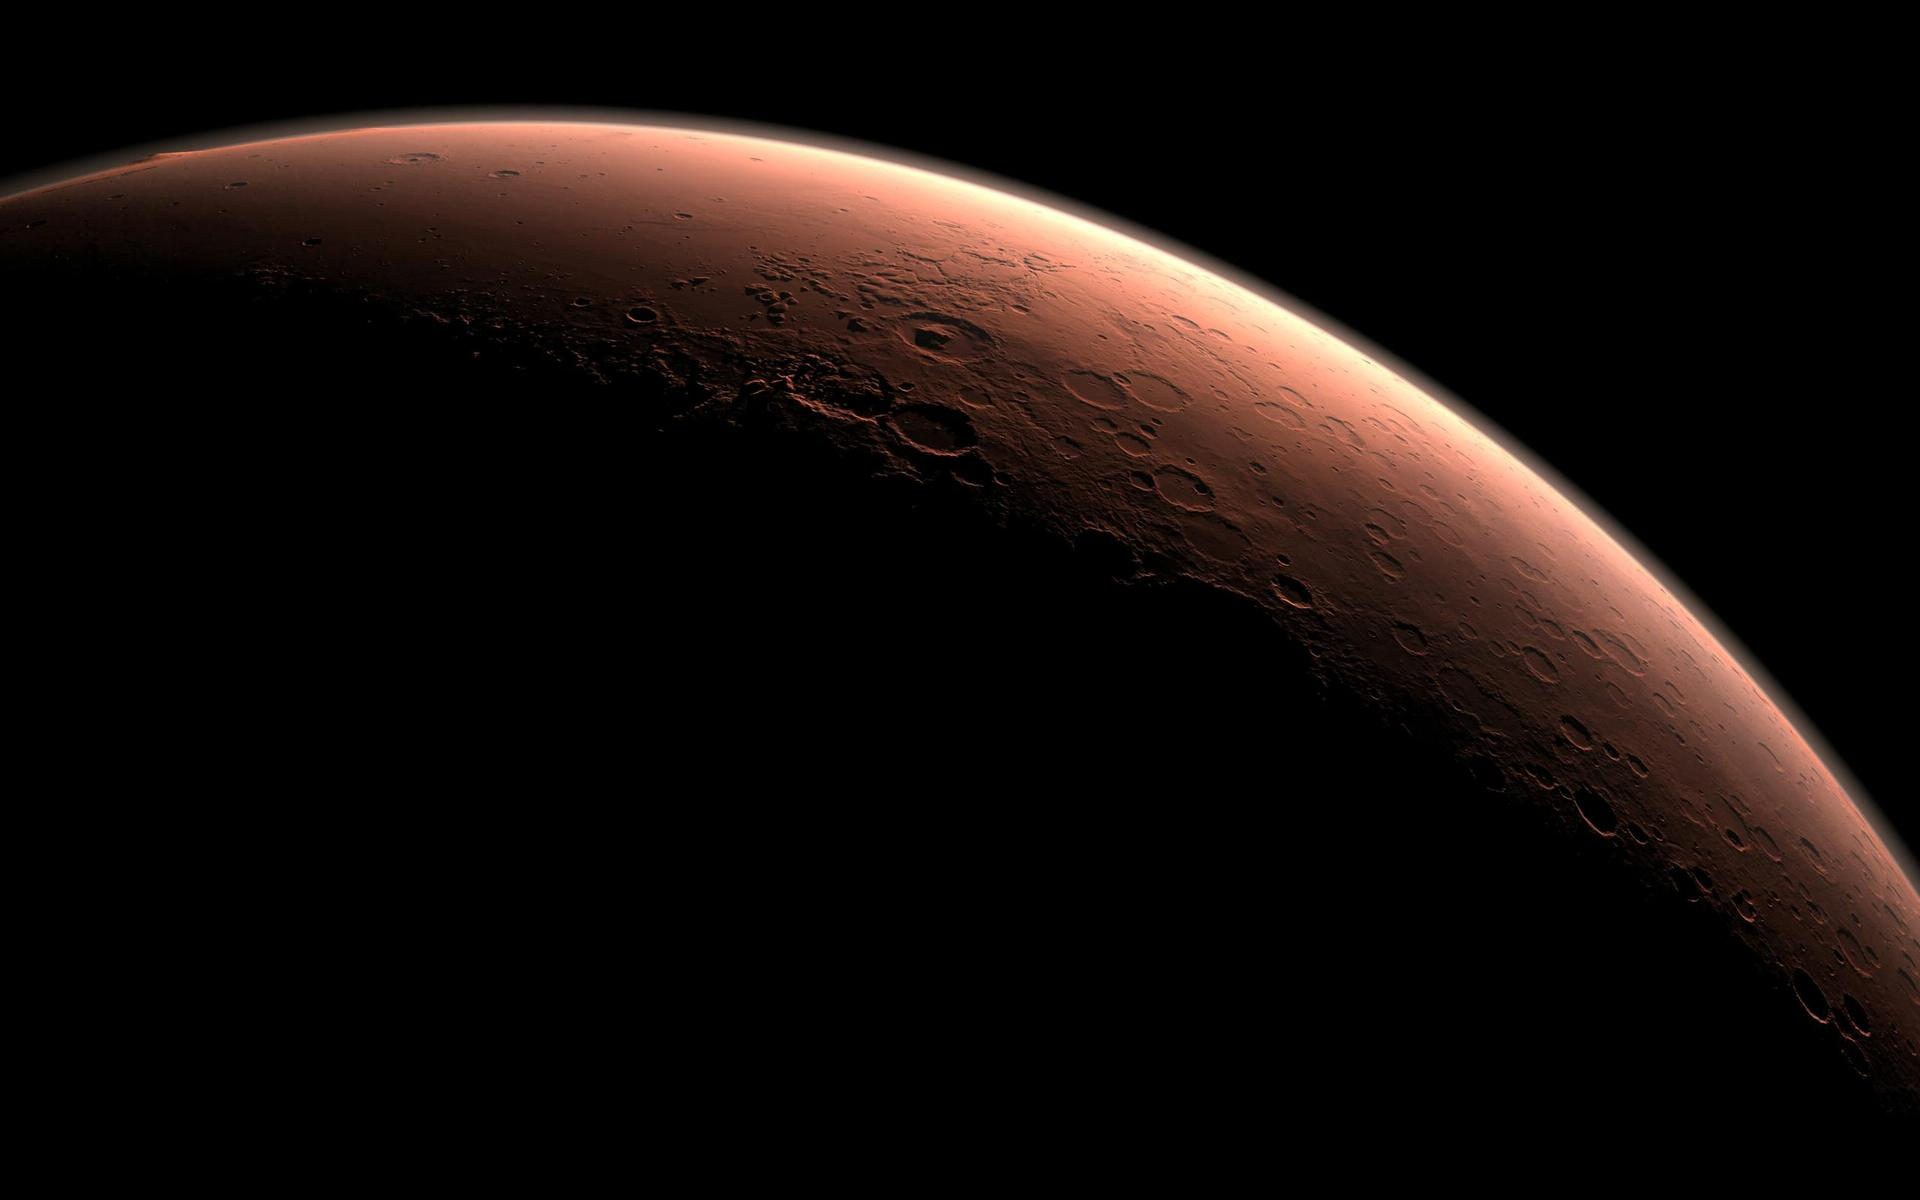
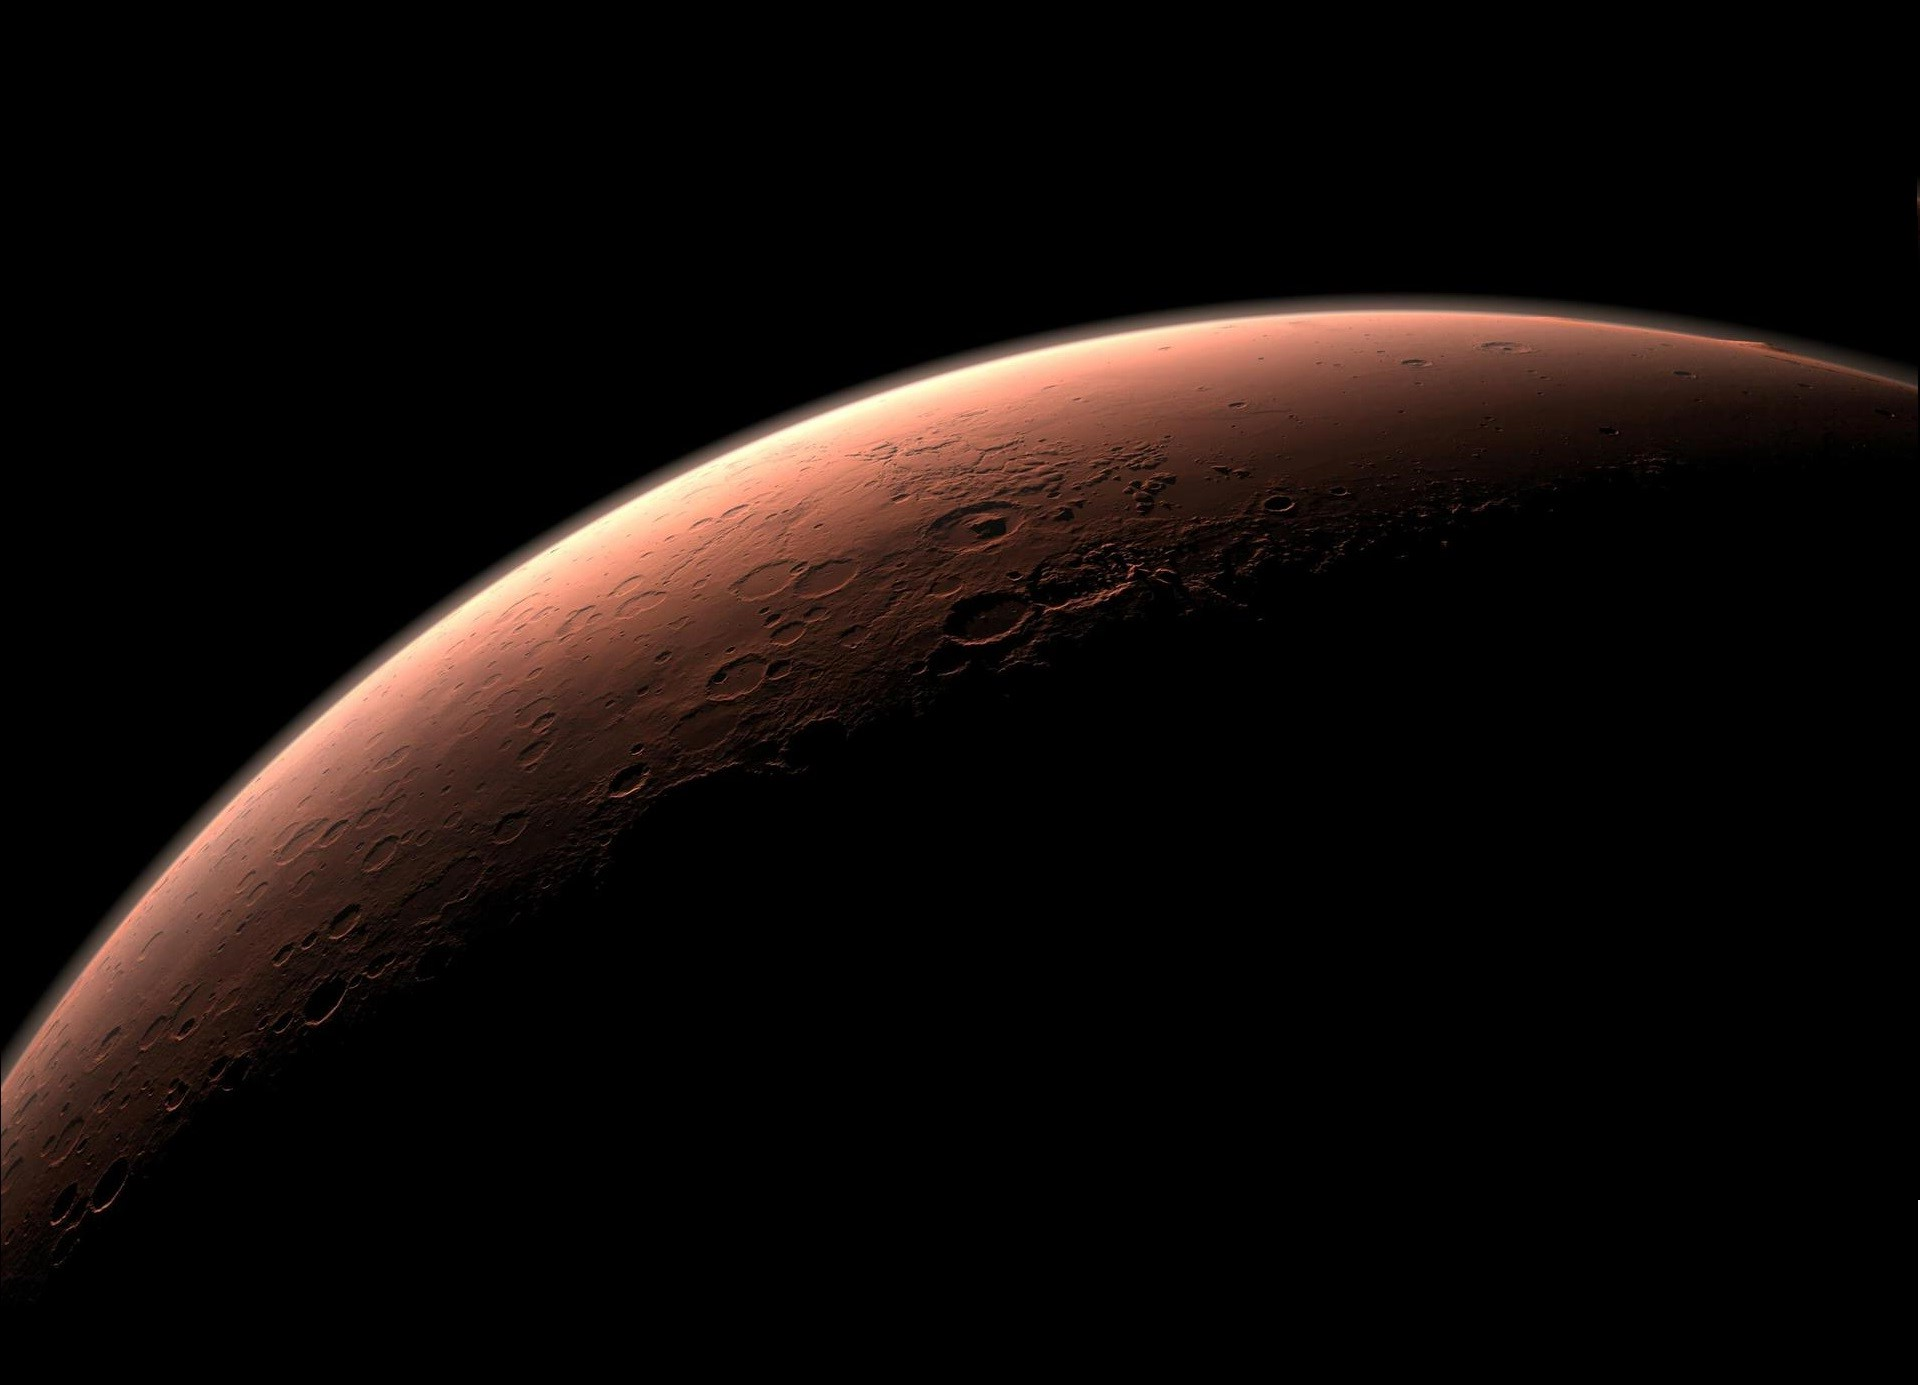
Fixed some images

diff --git a/assets/css/main.css b/assets/css/main.css
@@ -2277,7 +2277,7 @@ input, select, textarea {
 /* Two */
 
 	#two {
-		background: url("../../images/home_images/home32.jpg");
+		background: url("../../images/home_images/home31.jpg");
 		background-size: cover;
 		background-position: center center;
 	}
@@ -2317,8 +2317,11 @@ input, select, textarea {
         background: black;
         background-size: cover;
         background-attachment: fixed;
-		text-align:left;
 	}
+
+	.left-align {
+                text-align:left;
+            }
 
     #crew {
         padding: 0em 10em;

diff --git a/about.html b/about.html
@@ -35,7 +35,7 @@
 			<header>
 				<h2>ABOUT DEEP SPACE INITIATIVE</h2>
 			</header>
-			<p>
+			<p class="left-align">
 				<!-- <strong>VISION:</strong> 
 				Deep Space Initiative aims to make break borders by making Space Research accessible to everyone around the world. 
 				<br> <br>
